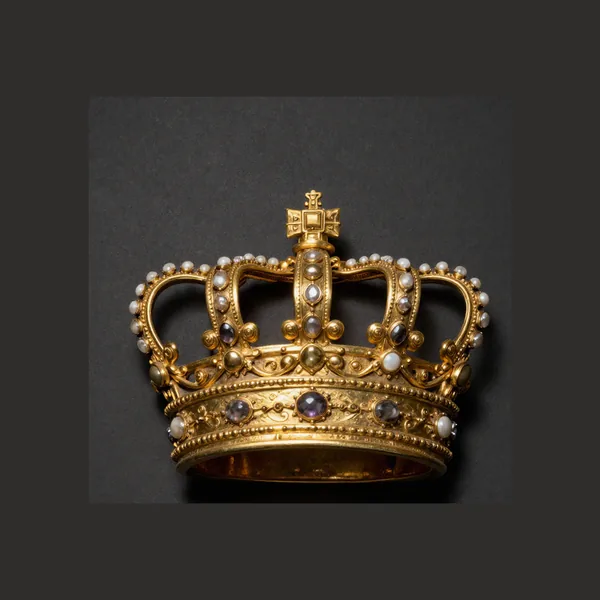
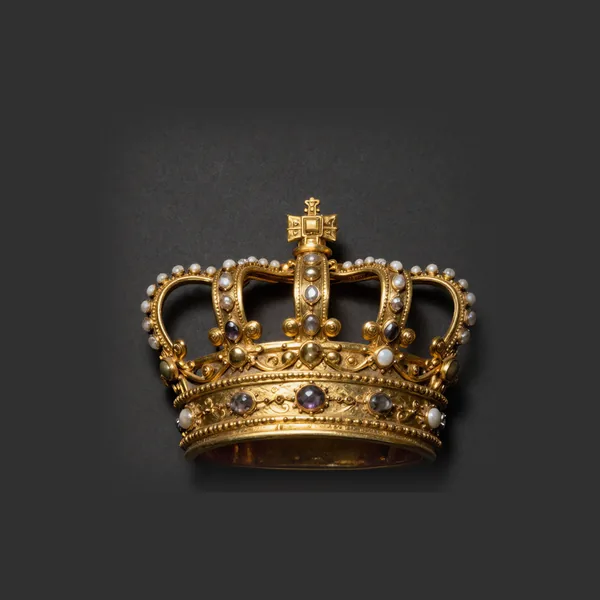
Home: center crown (feathered composite); remove redundant Royal Collection + Royal Districts titles

Changed region(s): [[0.21, 0.3, 0.84, 0.84]]

diff --git a/src/components/home/FeatureGrid.vue b/src/components/home/FeatureGrid.vue
@@ -1,6 +1,5 @@
 <script setup lang="ts">
 import { ref } from 'vue'
-import AppIcon from '@/components/ui/AppIcon.vue'
 import FeatureCard from './FeatureCard.vue'
 import { features } from '@/data/features'
 import { useReveal } from '@/composables/useReveal'
@@ -10,34 +9,8 @@ useReveal(root, { stagger: 0.14 })
 </script>
 
 <template>
-  <section id="live-casino" ref="root" class="container-royal relative pt-10 sm:pt-14">
-    <!-- Ambient haze -->
-    <div class="pointer-events-none absolute inset-x-0 top-0 h-[440px]" style="background: radial-gradient(58% 100% at 50% 0%, rgba(245,215,122,0.07), transparent 72%)" aria-hidden="true" />
-
-    <!-- Ornamental title — the gate to the Kingdom -->
-    <div class="relative mb-12 flex flex-col items-center text-center" data-reveal>
-      <span class="pointer-events-none absolute left-1/2 top-1 h-32 w-80 -translate-x-1/2" style="background: radial-gradient(circle, rgba(245,215,122,0.16), transparent 68%); filter: blur(10px)" aria-hidden="true" />
-      <AppIcon name="crown" :size="24" class="relative text-gold-bright drop-shadow-[0_2px_12px_rgba(212,175,55,0.6)]" />
-      <div class="relative mt-3 flex items-center gap-4">
-        <span class="hidden items-center gap-2 sm:flex">
-          <span class="h-px w-16 bg-gradient-to-r from-transparent to-gold/50" />
-          <span class="h-1.5 w-1.5 rotate-45 bg-gold/70" />
-        </span>
-        <h2 class="font-display text-2xl font-semibold uppercase tracking-[0.2em] text-gold-gradient sm:text-3xl">The Royal Districts</h2>
-        <span class="hidden items-center gap-2 sm:flex">
-          <span class="h-1.5 w-1.5 rotate-45 bg-gold/70" />
-          <span class="h-px w-16 bg-gradient-to-l from-transparent to-gold/50" />
-        </span>
-      </div>
-      <p class="relative mt-3 font-sans text-[11px] font-medium uppercase tracking-[0.3em] text-ink-muted">Enter Your World of Privilege</p>
-      <div class="relative mt-5 flex items-center justify-center gap-3">
-        <span class="h-px w-12 bg-gradient-to-r from-transparent to-gold/50" />
-        <span class="h-1.5 w-1.5 rotate-45 bg-gold/80" />
-        <span class="h-px w-12 bg-gradient-to-l from-transparent to-gold/50" />
-      </div>
-    </div>
-
-    <div class="feature-cards relative grid grid-cols-1 gap-5 md:grid-cols-2 lg:grid-cols-3">
+  <section id="live-casino" ref="root" class="container-royal pt-10 sm:pt-14">
+    <div class="feature-cards grid grid-cols-1 gap-5 md:grid-cols-2 lg:grid-cols-3">
       <FeatureCard v-for="f in features" :key="f.title" :feature="f" />
     </div>
   </section>

diff --git a/src/components/home/RoyalCollection.vue b/src/components/home/RoyalCollection.vue
@@ -1,7 +1,6 @@
 <script setup lang="ts">
 import { ref } from 'vue'
 import { useRouter } from 'vue-router'
-import SectionHeader from '@/components/ui/SectionHeader.vue'
 import GoldButton from '@/components/ui/GoldButton.vue'
 import AppIcon from '@/components/ui/AppIcon.vue'
 import GameCard from './GameCard.vue'
@@ -16,9 +15,7 @@ const router = useRouter()
 
 <template>
   <section id="casino" ref="root" class="section-glow container-royal pt-10 sm:pt-14">
-    <SectionHeader title="Royal Collection" eyebrow="Curated Tables" />
-
-    <div class="-mt-2 mb-3 flex items-center justify-end">
+    <div class="mb-2 flex items-center justify-end">
       <GoldButton variant="ghost" size="sm" @click="router.push('/casino')">
         View All <AppIcon name="arrowRight" :size="14" />
       </GoldButton>
